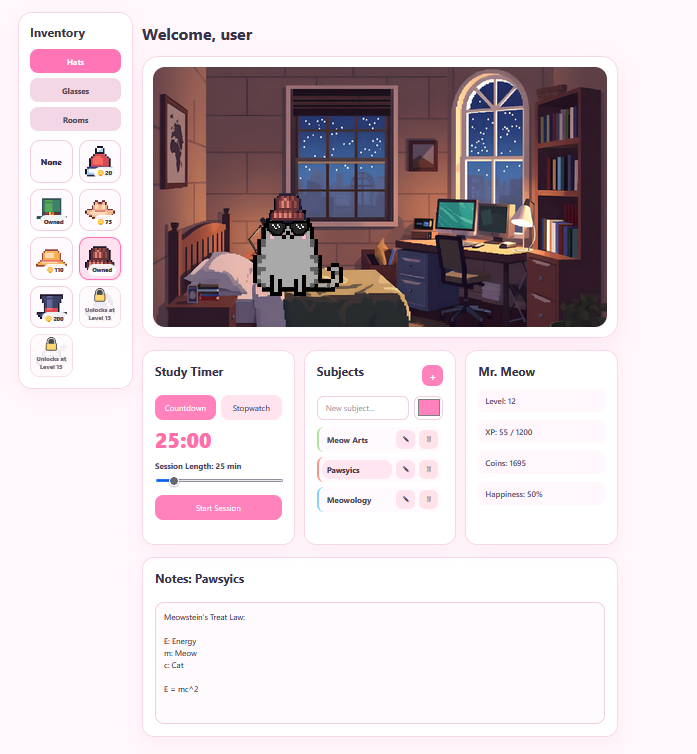
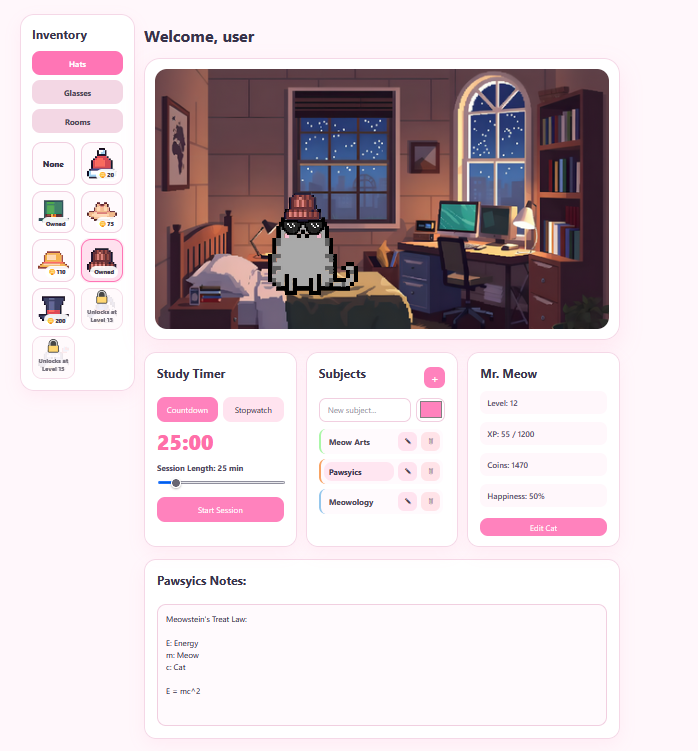
added editing cat name and color with styling while linking it to the API

diff --git a/src/pages/Dashboard.jsx b/src/pages/Dashboard.jsx
@@ -31,6 +31,12 @@ function Dashboard({ user, setUser, cat, setCat }) {
   const [catPosition, setCatPosition] = useState({ x: 50, y: 55 });
   const [shopTab, setShopTab] = useState("hats");
 
+  const [isEditingCat, setIsEditingCat] = useState(false);
+  const [editCat, setEditCat] = useState({
+    name: cat.name,
+    color: cat.color,
+  });
+
   const [subjects, setSubjects] = useState([]);
   const [selectedSubject, setSelectedSubject] = useState(null);
 
@@ -275,6 +281,37 @@ function Dashboard({ user, setUser, cat, setCat }) {
     };
   }
 
+  function startEditCat() {
+    setIsEditingCat(true);
+    setEditCat({
+      name: cat.name,
+      color: cat.color,
+    });
+  }
+
+  function cancelEditCat() {
+    setIsEditingCat(false);
+  }
+
+  async function saveEditCat() {
+    if (!editCat.name.trim()) return;
+
+    try {
+      const response = await axios.put(
+        `${import.meta.env.VITE_BACKEND_URL}/cat/edit`,
+        editCat,
+        {
+          headers: getAuthHeaders(),
+        },
+      );
+
+      setCat(response.data);
+      setIsEditingCat(false);
+    } catch (err) {
+      alert(err.response?.data?.err || "Could not edit cat");
+    }
+  }
+
   async function equipItem(type, item) {
     try {
       const response = await axios.put(
@@ -304,11 +341,8 @@ function Dashboard({ user, setUser, cat, setCat }) {
     isBackground = false,
   ) {
     const isLocked = user.level < item.level;
-
     const isOwned =
       item.id === "" || item.cost === 0 || ownedItems.includes(item.id);
-
-    const canBuy = !isLocked && !isOwned;
 
     return (
       <button
@@ -359,12 +393,7 @@ function Dashboard({ user, setUser, cat, setCat }) {
       );
 
       setSubjects(response.data);
-
-      if (response.data.length > 0) {
-        setSelectedSubject(response.data[0]);
-      } else {
-        setSelectedSubject(null);
-      }
+      setSelectedSubject(response.data[0] || null);
     } catch (err) {
       console.log(err.response?.data?.err || "Could not get subjects");
     }
@@ -844,22 +873,68 @@ function Dashboard({ user, setUser, cat, setCat }) {
               </div>
 
               <div className="panel fixed-panel cat-info-panel">
-                <h2>{cat.name}</h2>
+                {isEditingCat ? (
+                  <>
+                    <h2>Edit Cat</h2>
 
-                <p>Level: {user.level}</p>
-                <p>
-                  XP: {user.xp} / {user.level * 100}
-                </p>
-                <p>Coins: {user.coins}</p>
-                <p>Happiness: {user.happiness}%</p>
+                    <div
+                      style={{
+                        transform: "scale(0.55)",
+                        transformOrigin: "center",
+                        height: "150px",
+                        display: "flex",
+                        justifyContent: "center",
+                        alignItems: "center",
+                        margin: "-40px 0 -20px",
+                      }}
+                    >
+                      <CatPreview
+                        color={editCat.color}
+                        equippedHat={cat.equippedHat}
+                        equippedGlasses={cat.equippedGlasses}
+                      />
+                    </div>
+
+                    <input
+                      type="text"
+                      value={editCat.name}
+                      onChange={(event) =>
+                        setEditCat({ ...editCat, name: event.target.value })
+                      }
+                    />
+
+                    <input
+                      type="color"
+                      value={editCat.color}
+                      onChange={(event) =>
+                        setEditCat({ ...editCat, color: event.target.value })
+                      }
+                    />
+
+                    <button onClick={saveEditCat}>Save</button>
+                    <button onClick={cancelEditCat}>Cancel</button>
+                  </>
+                ) : (
+                  <>
+                    <h2>{cat.name}</h2>
+
+                    <p>Level: {user.level}</p>
+                    <p>
+                      XP: {user.xp} / {user.level * 100}
+                    </p>
+                    <p>Coins: {user.coins}</p>
+                    <p>Happiness: {user.happiness}%</p>
+
+                    <button onClick={startEditCat}>Edit Cat</button>
+                  </>
+                )}
               </div>
             </section>
 
             <section className="notes-card">
               <div className="notes-header">
                 <h2>
-                  Notes
-                  {selectedSubject ? `: ${selectedSubject.name}` : ""}
+                  {selectedSubject ? `${selectedSubject.name} Notes:` : ""}
                 </h2>
               </div>
 

diff --git a/src/App.css b/src/App.css
@@ -1055,3 +1055,12 @@ button:hover {
   color: #786773;
   font-size: 0.92rem;
 }
+
+.cat-info-panel button {
+  padding: 7px;
+  margin-top: 7px;
+}
+
+.cat-info-panel input {
+  margin-bottom: 9px;
+}
